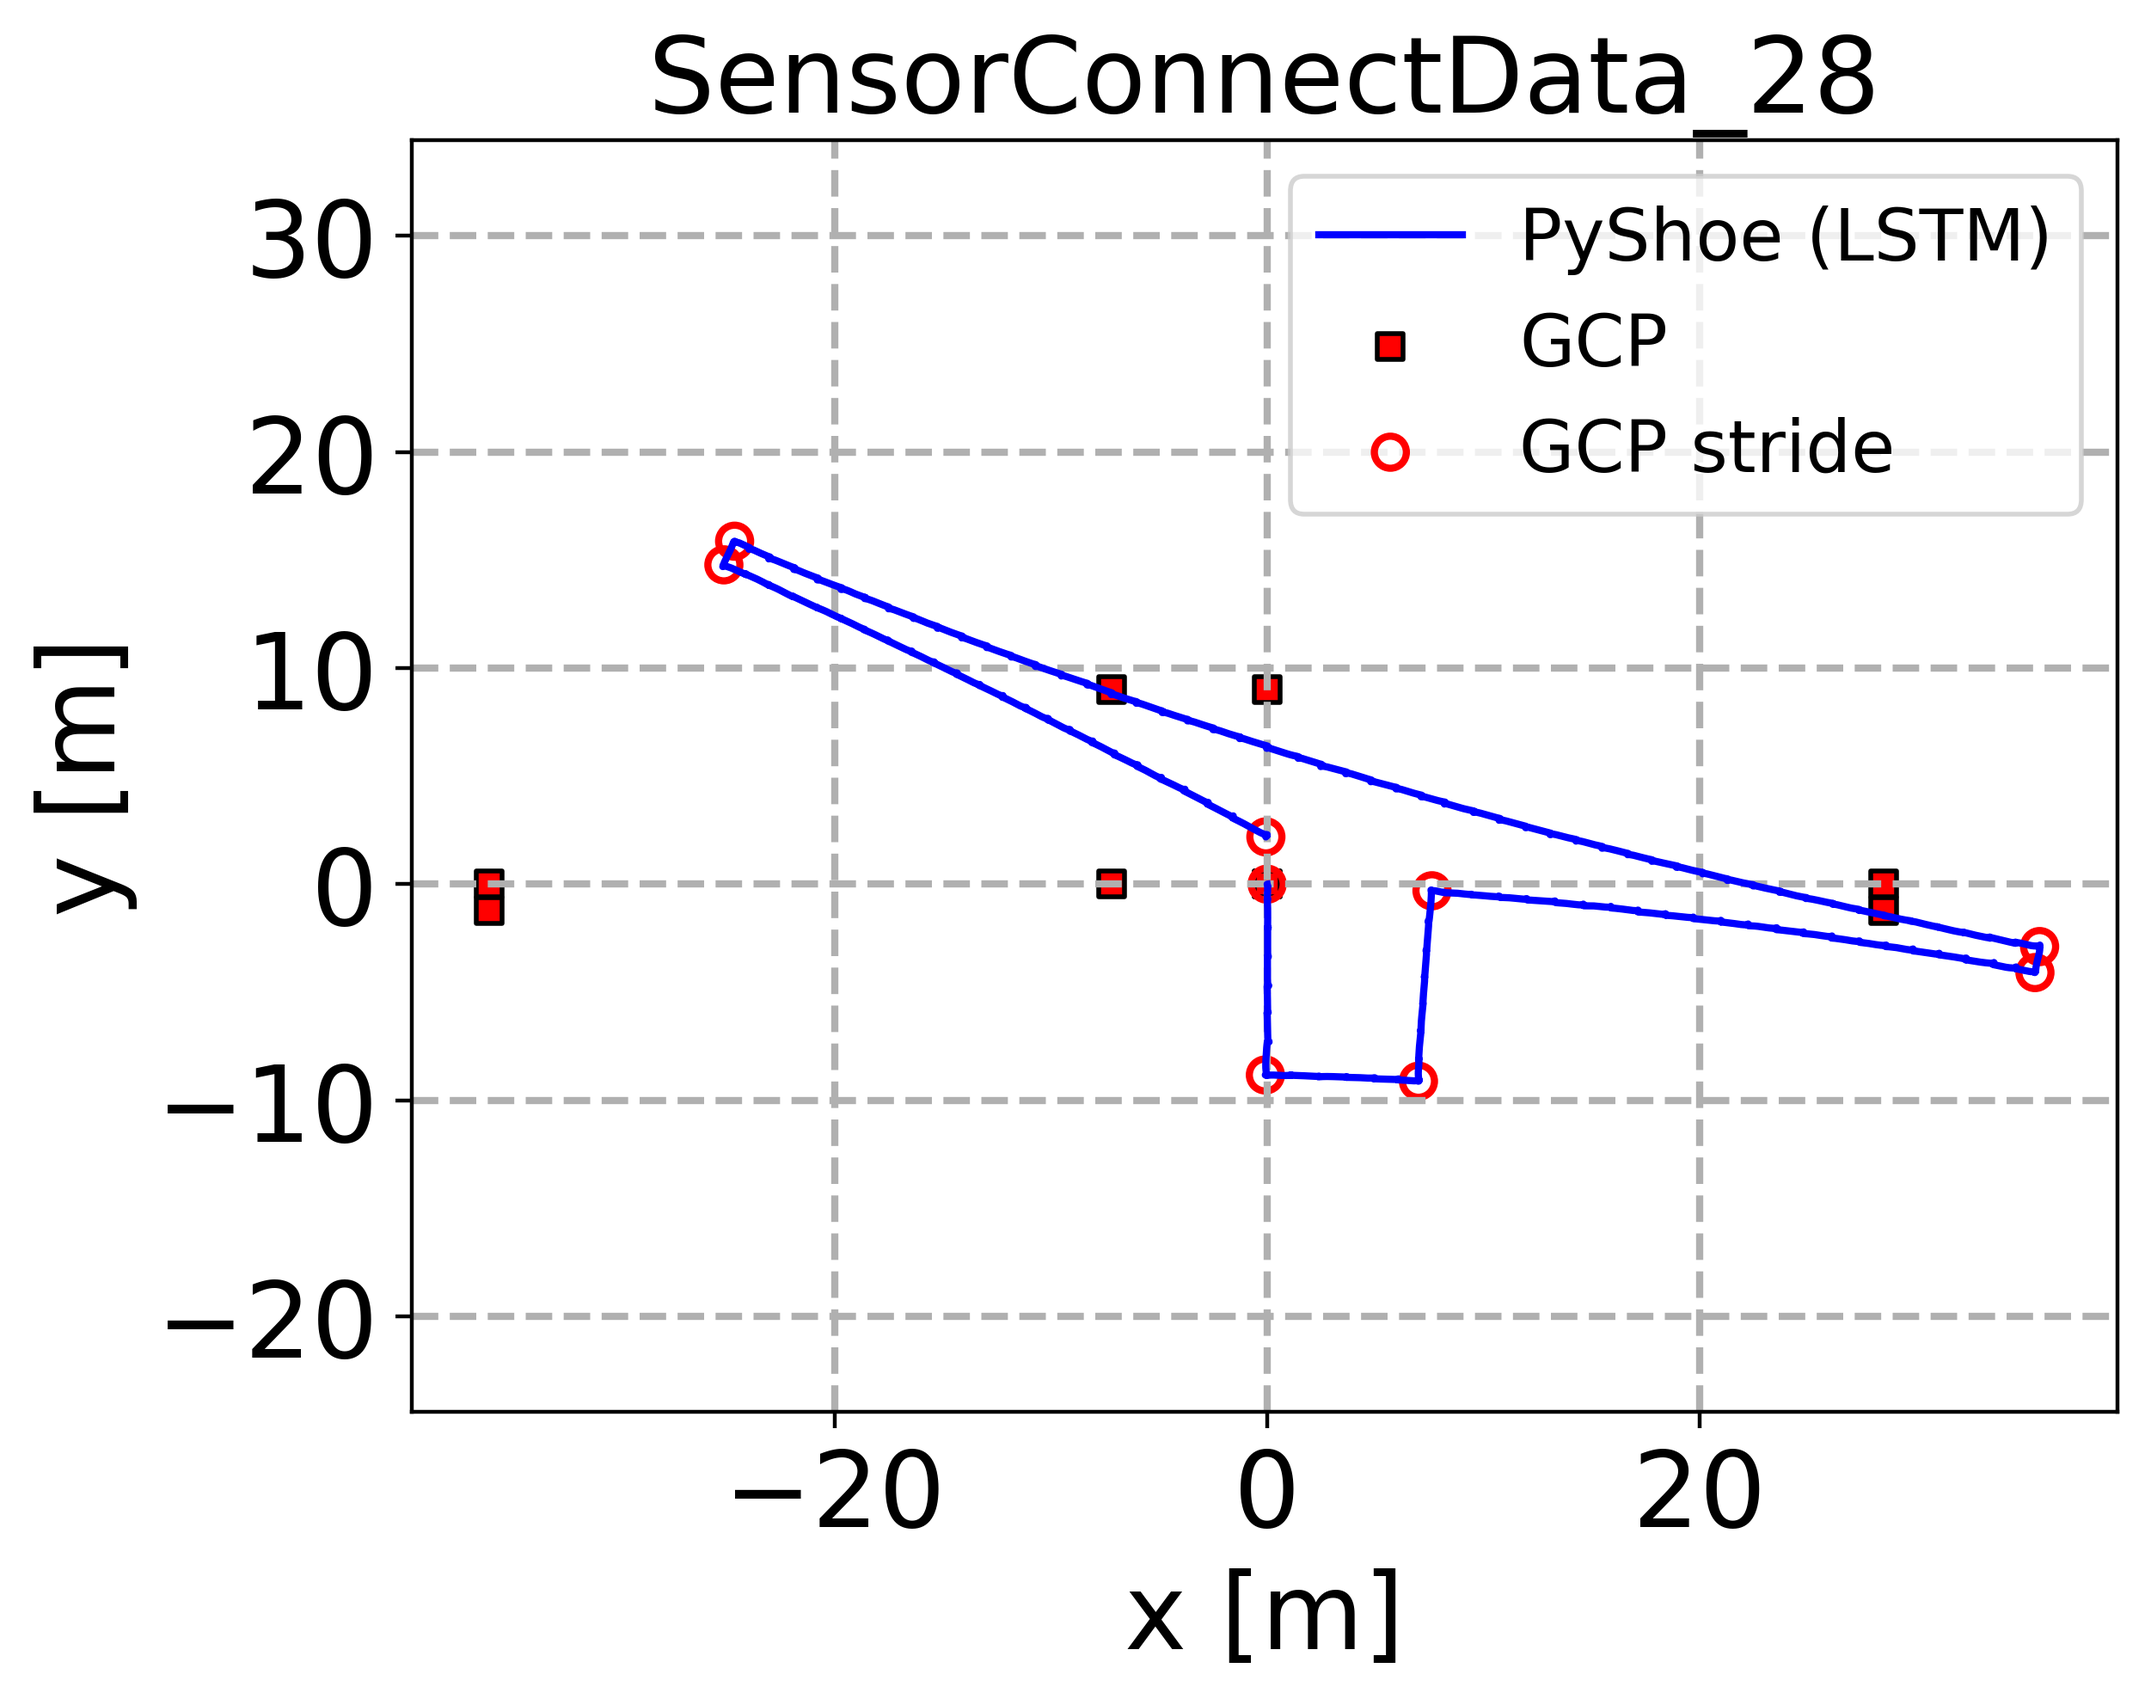
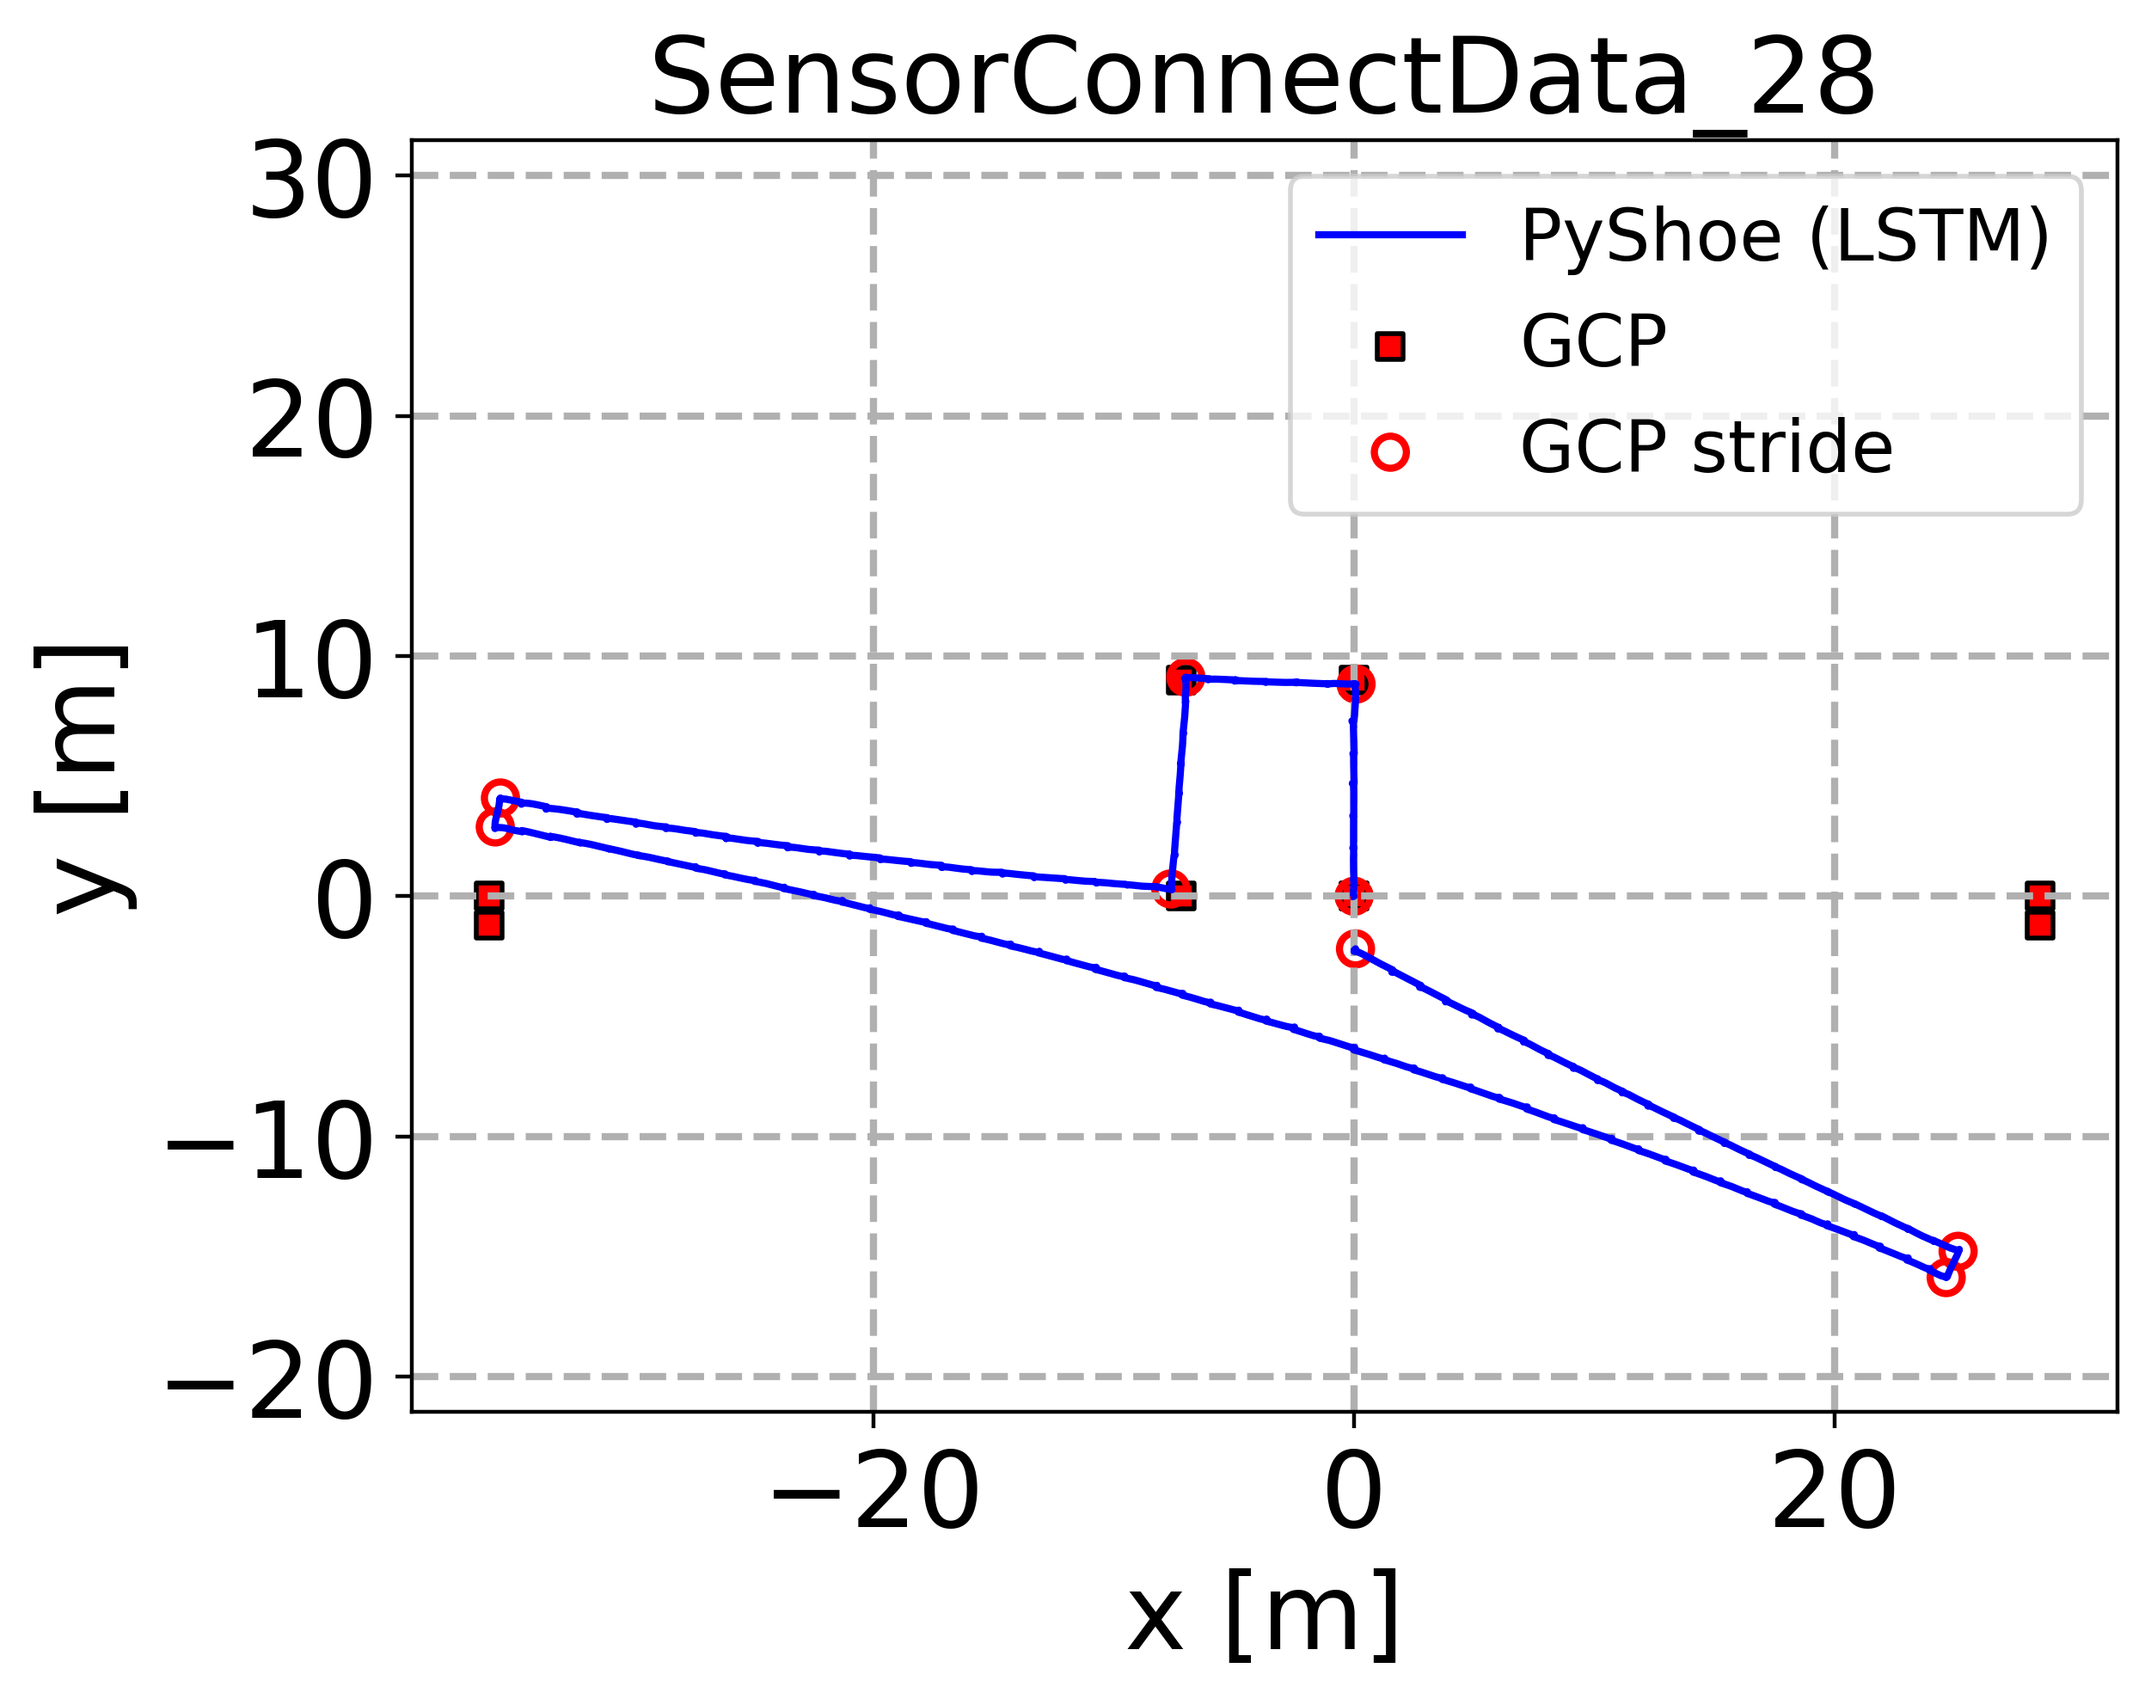
exp 28 that is a long pedestrian traverse is added

diff --git a/plot_own_sensor_data.py b/plot_own_sensor_data.py
@@ -179,7 +179,7 @@ for file in sensor_data_files:
     _, theta = calculate_displacement_and_heading(traj_list[-1][:, :2], strideIndex[np.array([0,strideAlign])])
     theta = theta - np.pi
     if expNumber == 28:
-        theta = theta - np.pi/2
+        theta = theta - 3*np.pi/2
     # Apply the rotation
     aligned_trajectory_INS = np.squeeze(rotate_trajectory(traj_list[-1][:,:2], -theta))
     aligned_trajectory_SHS = np.squeeze(rotate_trajectory(reconstructed_traj, -theta))

diff --git a/README.md b/README.md
@@ -213,7 +213,7 @@ pip install pandas==1.1.5
 
 <h3>VICON Training Manual Annotation (Corrections)</h3>
 
-<h4>Experiment 28</h4>
+<h4>Experiment 28 (a longer pedestrian traverse)</h4>
 
 <img src="results/figs/own/SensorConnectData_28.png" alt="trajectory obtained with robust ZUPT detector (LSTM) aided (Error-State Kalman Filter based) foot-mounted INS" width=400 height=auto>
 
